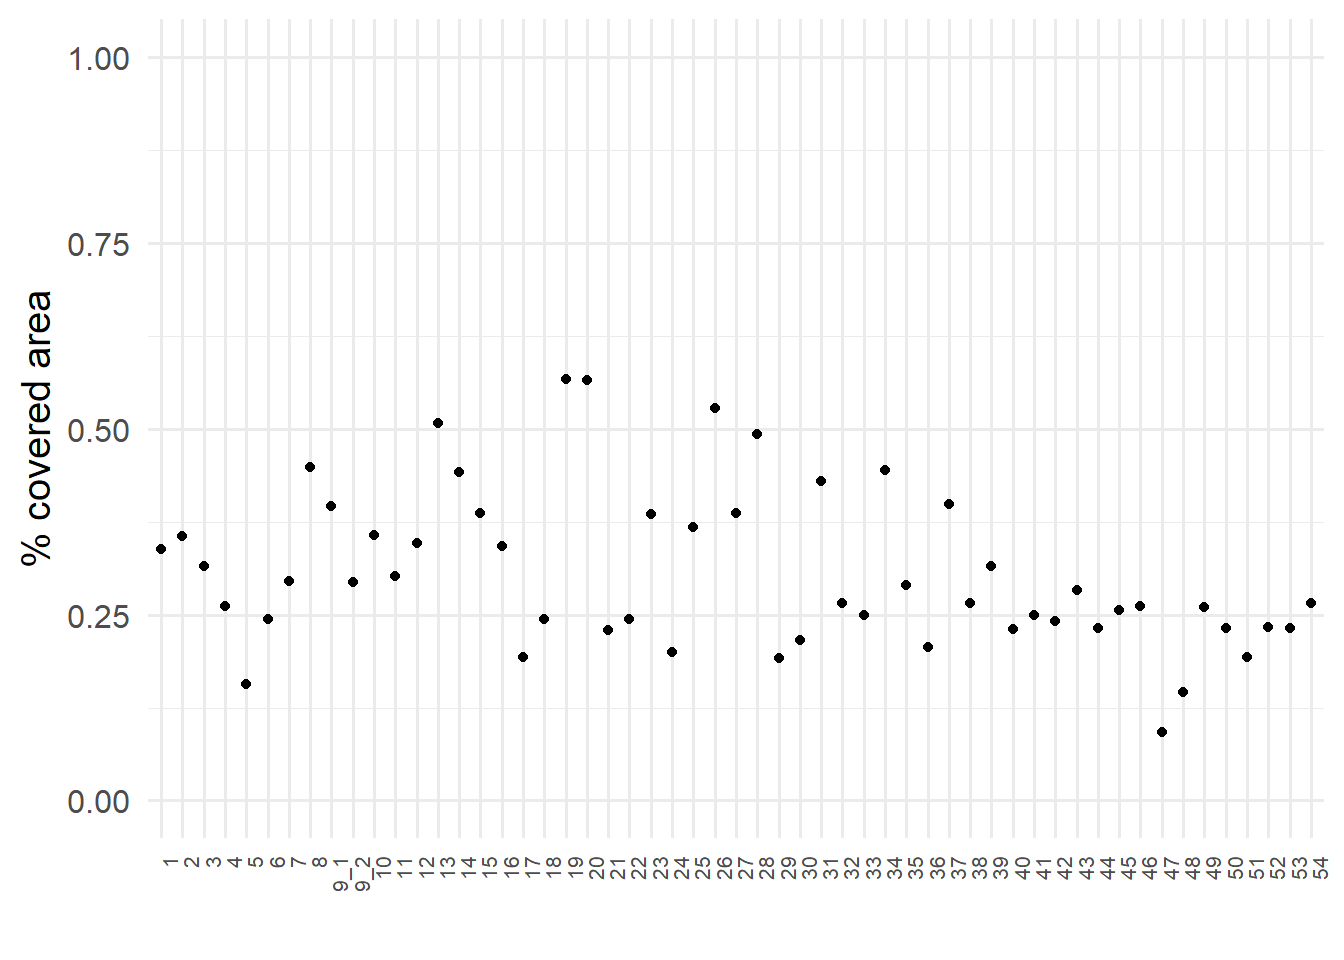
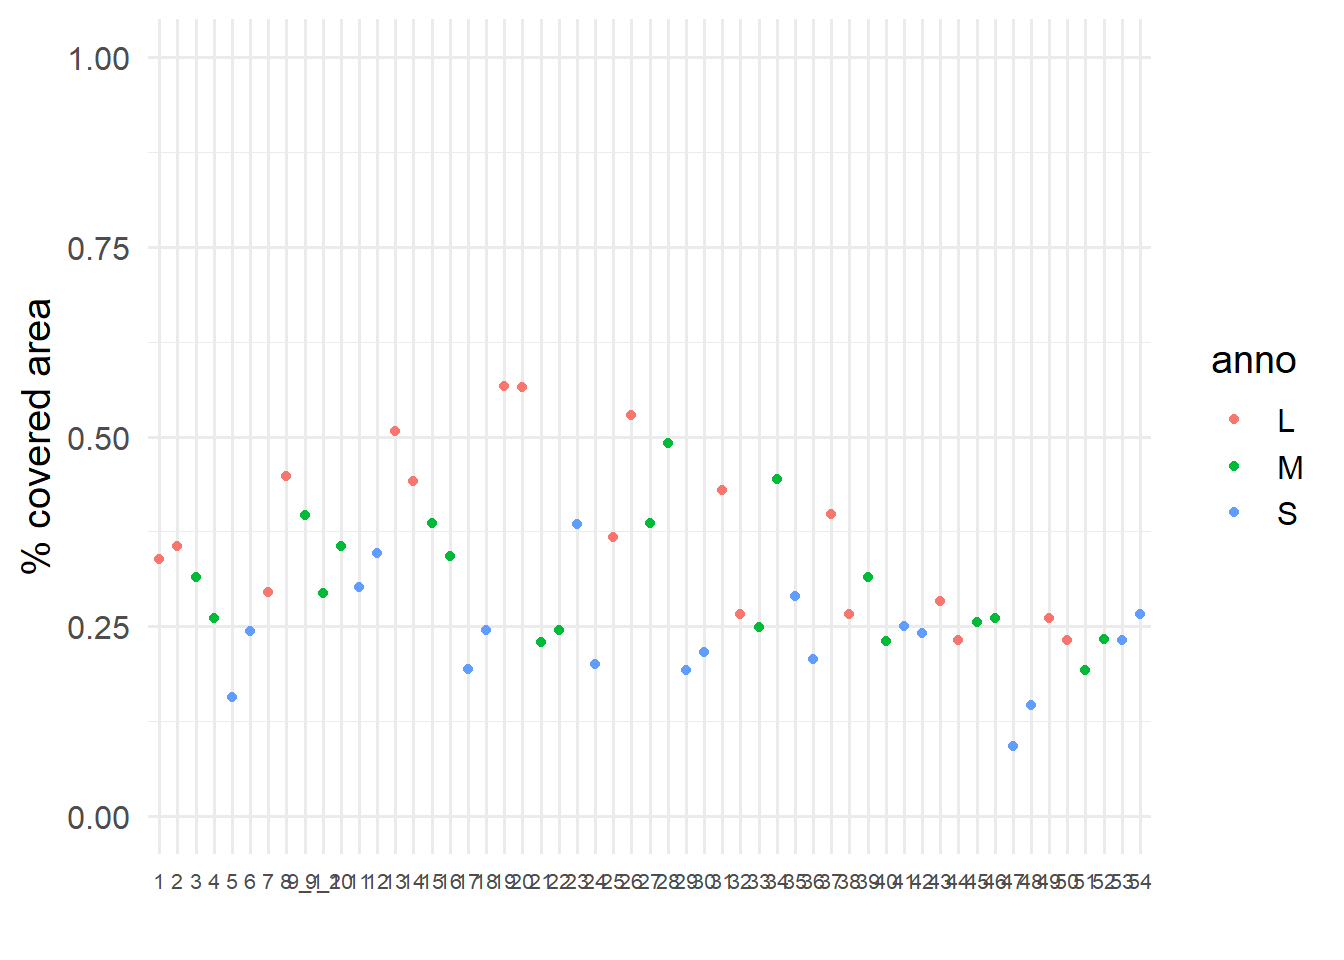
Build site.

diff --git a/docs/1_QC_mask.html b/docs/1_QC_mask.html
@@ -405,7 +405,7 @@ aria-hidden="true"></span> </a>
 <div class="tab-content">
 <div id="summary" class="tab-pane fade in active">
 <p>
-<strong>Last updated:</strong> 2023-05-17
+<strong>Last updated:</strong> 2023-05-30
 </p>
 <p>
 <strong>Checks:</strong> <span
@@ -563,13 +563,13 @@ laptop/Users2/Tess/SteinbockCellSegmentation/221130_haibin/230515_workflowr_haib
 <div class="panel panel-default">
 <div class="panel-heading">
 <p class="panel-title">
-<a data-toggle="collapse" data-parent="#workflowr-checks" href="#strongRepositoryversionstrong606b210">
+<a data-toggle="collapse" data-parent="#workflowr-checks" href="#strongRepositoryversionstrong8cc8fe6">
 <span class="glyphicon glyphicon-ok text-success"
-aria-hidden="true"></span> <strong>Repository version:</strong> 606b210
+aria-hidden="true"></span> <strong>Repository version:</strong> 8cc8fe6
 </a>
 </p>
 </div>
-<div id="strongRepositoryversionstrong606b210"
+<div id="strongRepositoryversionstrong8cc8fe6"
 class="panel-collapse collapse">
 <div class="panel-body">
 <p>
@@ -578,7 +578,7 @@ and connecting the code version to the results is critical for
 reproducibility.
 </p>
 <p>
-The results in this page were generated with repository version 606b210.
+The results in this page were generated with repository version 8cc8fe6.
 See the <em>Past versions</em> tab to see a history of the changes made
 to the R Markdown and HTML files.
 </p>
@@ -604,12 +604,8 @@ Ignored files:
 Untracked files:
     Untracked:  3_communities_v2.png
     Untracked:  6_communities_v3.png
-    Untracked:  analysis/2_IMCA_cell_annotation.Rmd
-    Untracked:  analysis/3_dim_red.Rmd
-    Untracked:  analysis/4_img_vis.Rmd
     Untracked:  analysis/5_spatial_vis.Rmd
     Untracked:  analysis/6_statistics.Rmd
-    Untracked:  analysis/6_statistics_v2.Rmd
     Untracked:  data/images.csv
     Untracked:  data/images.rds
     Untracked:  data/img/
@@ -628,6 +624,11 @@ Untracked files:
     Untracked:  output/spe3.rds
     Untracked:  output/spe4.rds
     Untracked:  output/spe_ca.rds
+
+Unstaged changes:
+    Modified:   analysis/3_dim_red.Rmd
+    Deleted:    analysis/about.Rmd
+    Deleted:    analysis/license.Rmd
 
 </code></pre>
 <p>
@@ -673,6 +674,40 @@ Message
 </tr>
 </thead>
 <tbody>
+<tr>
+<td>
+Rmd
+</td>
+<td>
+8cc8fe6
+</td>
+<td>
+Tess Brodie
+</td>
+<td>
+2023-05-30
+</td>
+<td>
+wflow_publish("analysis/1_QC_mask.Rmd", delete_cache = TRUE)
+</td>
+</tr>
+<tr>
+<td>
+html
+</td>
+<td>
+e04fc5e
+</td>
+<td>
+Tess Brodie
+</td>
+<td>
+2023-05-17
+</td>
+<td>
+Build site.
+</td>
+</tr>
 <tr>
 <td>
 Rmd
@@ -739,7 +774,12 @@ library(harmony)
 library(Seurat)
 library(SeuratObject)
 library(cowplot)
-library(gtools)</code></pre>
+library(gtools)
+
+#Outlier labeling function
+is_outlier &lt;- function(x) {
+  return(x &lt; quantile(x, 0.25) - 1.5 * IQR(x) | x &gt; quantile(x, 0.75) + 1.5 * IQR(x))
+}</code></pre>
 </div>
 <div id="load-data" class="section level3">
 <h3>Load data</h3>
@@ -852,19 +892,7 @@ Warning in FUN(X[[i]], ...): NaNs produced</code></pre>
 </div>
 <div id="image-area-covered-by-cells" class="section level3">
 <h3>Image area covered by cells</h3>
-<pre class="r"><code>colData(spe) %&gt;%
-    as.data.frame() %&gt;%
-    group_by(ROI) %&gt;%
-    summarize(cell_area = sum(area),
-           no_pixels = mean(width_px) * mean(height_px)) %&gt;%
-    mutate(covered_area = cell_area / no_pixels) %&gt;%
-    ggplot() +
-        geom_point(aes(ROI, covered_area)) + 
-        theme_minimal(base_size = 15) +
-        ylim(c(0, 1)) + 
-        theme(axis.text.x = element_text(angle = 90, hjust = 1, size = 8)) +
-        ylab(&quot;% covered area&quot;) + xlab(&quot;&quot;)</code></pre>
-<p><img src="figure/1_QC_mask.Rmd/cell%20coverage-1.png" width="672" style="display: block; margin: auto;" /></p>
+<p><img src="figure/1_QC_mask.Rmd/cell%20coverage-1.png" width="672" style="display: block; margin: auto;" /><img src="figure/1_QC_mask.Rmd/cell%20coverage-2.png" width="672" style="display: block; margin: auto;" /></p>
 </div>
 <div
 id="display-single-images-with-low-image-area-covered-by-cells-to-analyze"
